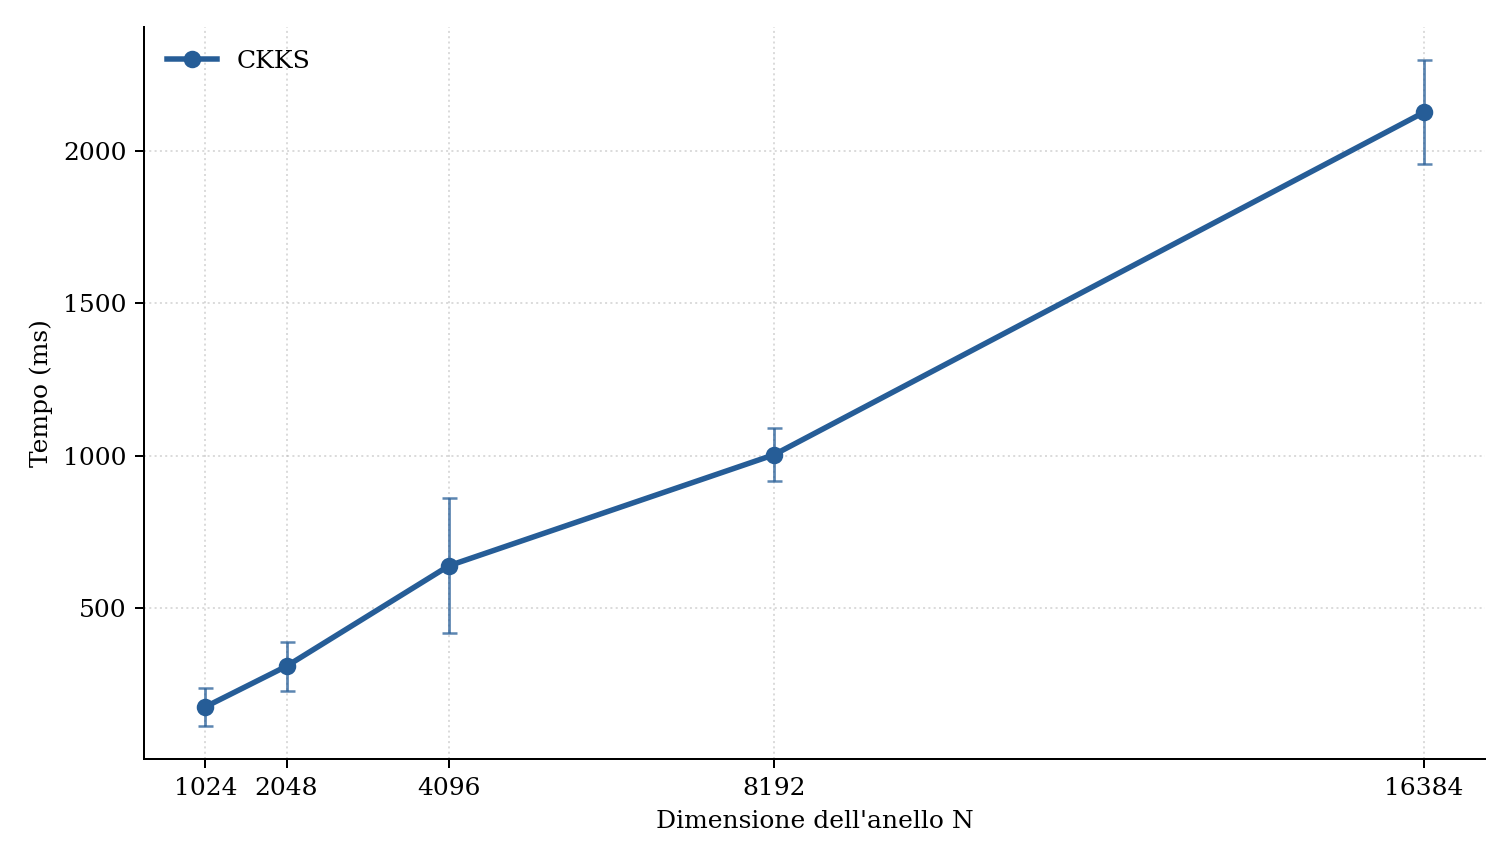
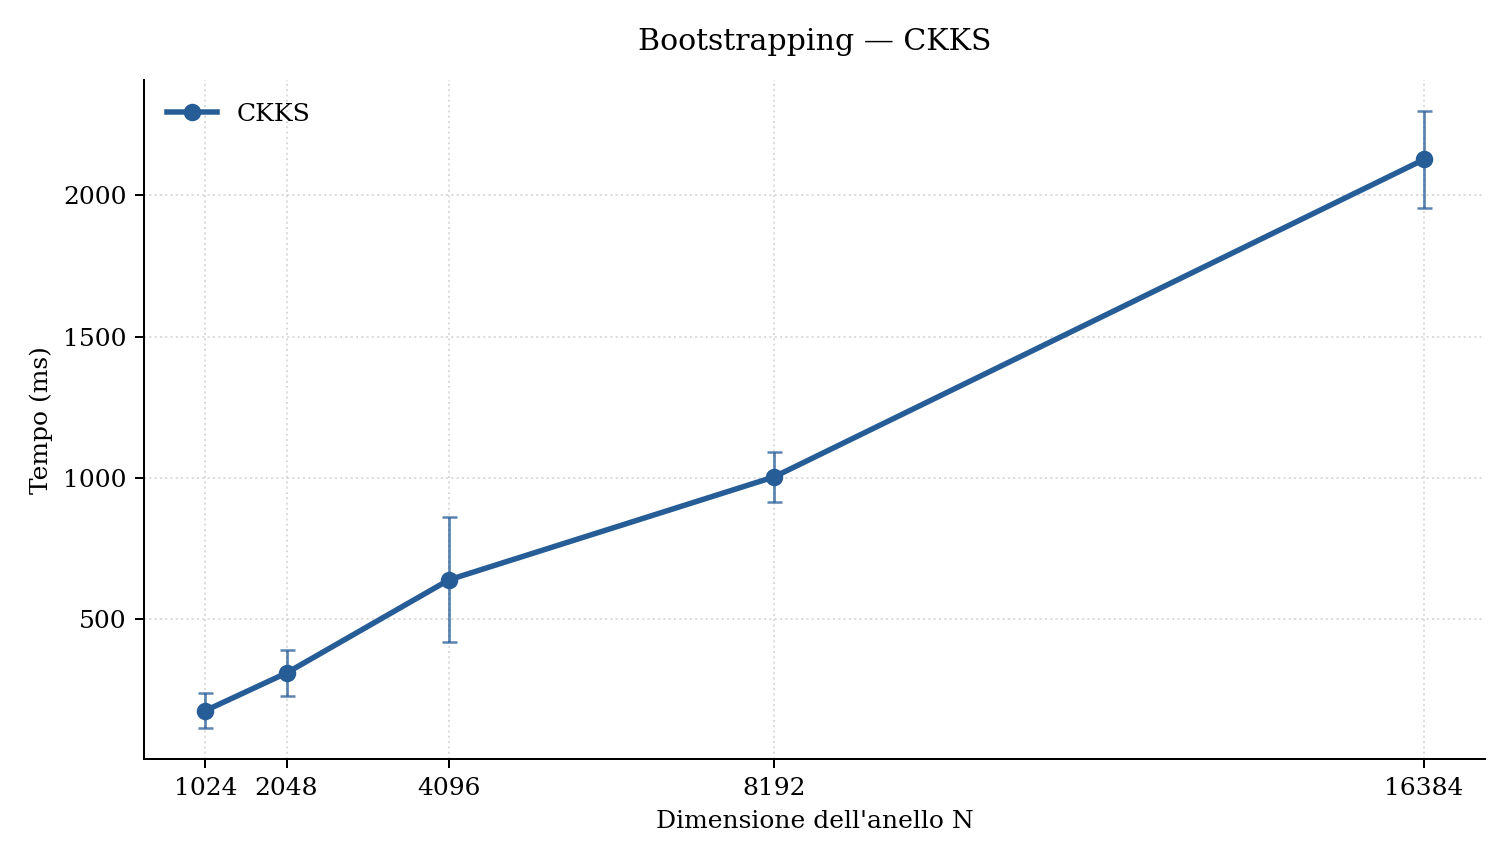
update plots

diff --git a/linear_regression/generate_linear_regression_figures.py b/linear_regression/generate_linear_regression_figures.py
@@ -123,68 +123,76 @@ def draw_scaling(frames, output_path):
 
 
 def draw_epoch_times(frame, output_path):
-    fig, ax = plt.subplots(figsize=(8.8, 5.2))
+    fig, ax = plt.subplots(figsize=(10.8, 5.8))
 
     bootstrap_epoch = 14
     bootstrap_time = frame.loc[frame["epoch"] == bootstrap_epoch, "epoch_time_seconds"].iloc[0]
-    pre_mask = frame["epoch"] < bootstrap_epoch
-    post_mask = frame["epoch"] >= bootstrap_epoch
+    line_color = "#2563EB"
+    bootstrap_color = "#D97706"
 
-    ax.axvspan(0.5, bootstrap_epoch - 0.5, color="#265d97", alpha=0.05)
-    ax.axvspan(bootstrap_epoch - 0.5, frame["epoch"].max() + 0.5, color="#c26b32", alpha=0.05)
+    # The narrow central band marks the epoch in which the ciphertext is refreshed.
+    ax.axvspan(0.5, bootstrap_epoch - 0.5, color="#EFF6FF", zorder=0)
+    ax.axvspan(bootstrap_epoch - 0.5, bootstrap_epoch + 0.5, color="#FFF7ED", zorder=0)
+    ax.axvspan(bootstrap_epoch + 0.5, frame["epoch"].max() + 0.5, color="#F0FDFA", zorder=0)
 
     ax.plot(
         frame["epoch"],
         frame["epoch_time_seconds"],
         marker="o",
-        markersize=7,
-        linewidth=2.6,
-        color="#265d97",
+        markersize=7.5,
+        linewidth=2.8,
+        color=line_color,
+        zorder=2,
     )
     ax.plot(
-        frame.loc[pre_mask, "epoch"],
-        frame.loc[pre_mask, "epoch_time_seconds"],
-        linewidth=0,
+        bootstrap_epoch,
+        bootstrap_time,
         marker="o",
-        markersize=7,
-        color="#265d97",
-    )
-    ax.plot(
-        frame.loc[post_mask, "epoch"],
-        frame.loc[post_mask, "epoch_time_seconds"],
         linewidth=0,
-        marker="o",
-        markersize=7,
-        color="#c26b32",
+        markersize=11,
+        color=bootstrap_color,
+        markeredgecolor="white",
+        markeredgewidth=1.5,
+        zorder=3,
     )
 
-    ax.axvline(bootstrap_epoch, color="#c26b32", linestyle="--", linewidth=1.6, alpha=0.9)
+    ax.axvline(bootstrap_epoch, color=bootstrap_color, linestyle="--", linewidth=1.8, alpha=0.9)
     ax.annotate(
-        "bootstrap",
+        "Bootstrap\nepoca 14",
         (bootstrap_epoch, bootstrap_time),
         textcoords="offset points",
-        xytext=(12, 12),
+        xytext=(16, 18),
         ha="left",
-        color="#c26b32",
-        fontsize=11,
-        fontweight="semibold",
+        va="bottom",
+        color=bootstrap_color,
+        fontsize=11.5,
+        fontweight="bold",
+        arrowprops={"arrowstyle": "-", "color": bootstrap_color, "linewidth": 1.2},
     )
 
-    ax.text(0.02, 0.96, "Prima del bootstrap", transform=ax.transAxes, va="top", ha="left", fontsize=10, color="#265d97")
-    ax.text(0.98, 0.96, "Dopo il bootstrap", transform=ax.transAxes, va="top", ha="right", fontsize=10, color="#c26b32")
+    zone_label_style = {
+        "transform": ax.get_xaxis_transform(),
+        "ha": "center",
+        "va": "bottom",
+        "fontsize": 10,
+        "fontweight": "semibold",
+    }
+    ax.text(7, 0.025, "Prima del bootstrap", color="#1E40AF", **zone_label_style)
+    ax.text(14, 0.025, "Bootstrap", color=bootstrap_color, **zone_label_style)
+    ax.text(17.5, 0.025, "Dopo il bootstrap", color="#0F766E", **zone_label_style)
 
     ax.set_xlabel("Epoca")
     ax.set_ylabel("Tempo per epoca (s)")
-    ax.grid(True, which="major", linestyle=":", alpha=0.45)
+    ax.grid(True, axis="y", which="major", linestyle=":", color="#94A3B8", alpha=0.7)
+    ax.grid(False, axis="x")
     ax.yaxis.set_major_formatter(ticker.StrMethodFormatter("{x:g}"))
-    ax.xaxis.set_major_locator(ticker.FixedLocator(frame["epoch"].tolist()))
-    ax.xaxis.set_major_formatter(
-        ticker.FixedFormatter([str(value) for value in frame["epoch"].tolist()])
-    )
+    ax.xaxis.set_major_locator(ticker.MultipleLocator(2))
+    ax.xaxis.set_minor_locator(ticker.MultipleLocator(1))
     ax.set_xlim(0.5, frame["epoch"].max() + 0.5)
+    ax.set_ylim(0, frame["epoch_time_seconds"].max() * 1.16)
 
     fig.tight_layout()
-    fig.savefig(output_path, dpi=180)
+    fig.savefig(output_path, dpi=220)
     plt.close(fig)
 
 

diff --git a/tesi/generate_benchmark_figures.py b/tesi/generate_benchmark_figures.py
@@ -55,7 +55,7 @@ def load_results(scheme):
     return aggregated.merge(stddev, on=key_cols, how="left")
 
 
-def draw(operation, filename, ylabel, metric="cpu_time", schemes=SCHEMES):
+def draw(operation, filename, ylabel, title, metric="cpu_time", schemes=SCHEMES):
     fig, ax = plt.subplots(figsize=(8.4, 4.8))
     plotted = False
     for scheme in schemes:
@@ -101,6 +101,7 @@ def draw(operation, filename, ylabel, metric="cpu_time", schemes=SCHEMES):
     ax.xaxis.set_minor_locator(ticker.NullLocator())
     ax.set_yscale("linear")
     ax.yaxis.set_major_formatter(ticker.StrMethodFormatter("{x:g}"))
+    ax.set_title(title, pad=12)
     ax.set_xlabel("Dimensione dell'anello N")
     ax.set_ylabel(ylabel)
     ax.grid(True, which="both", linestyle=":", alpha=0.45)
@@ -119,7 +120,7 @@ if __name__ == "__main__":
             "axes.spines.right": False,
         }
     )
-    draw("BM_EvalAdd", "benchmark_add.png", "Tempo (ms)")
-    draw("BM_EvalMult", "benchmark_mult.png", "Tempo (ms)")
-    draw("BM_Bootstrap", "benchmark_bootstrap.png", "Tempo (ms)", schemes=("ckks",))
-    draw("BM_ContextCreation", "benchmark_memory.png", "Heap osservato (MB)", metric="MB")
+    draw("BM_EvalAdd", "benchmark_add.png", "Tempo (ms)", "Somma omomorfica — BFV, BGV, CKKS")
+    draw("BM_EvalMult", "benchmark_mult.png", "Tempo (ms)", "Moltiplicazione omomorfica — BFV, BGV, CKKS")
+    draw("BM_Bootstrap", "benchmark_bootstrap.png", "Tempo (ms)", "Bootstrapping — CKKS", schemes=("ckks",))
+    draw("BM_ContextCreation", "benchmark_memory.png", "Heap osservato (MB)", "Creazione del contesto — BFV, BGV, CKKS", metric="MB")

diff --git a/discorso_presentazione.md b/discorso_presentazione.md
@@ -1,0 +1,172 @@
+# Discorso per la discussione della tesi
+
+Durata prevista: circa 15 minuti. Il testo e' pensato come traccia da esporre: non e' necessario leggerlo parola per parola, ma e' utile mantenere i messaggi chiave e i passaggi tra le slide.
+
+---
+
+## Slide 1 - Titolo
+
+Buongiorno. In questa presentazione descrivero' il lavoro svolto sulle tecniche di Fully Homomorphic Encryption, o FHE. Il filo conduttore della tesi e' capire come sia possibile elaborare dati sensibili senza renderli leggibili al soggetto che esegue il calcolo. Partiro' dal problema e dagli schemi crittografici, poi presentero' i benchmark e due casi di studio: una regressione lineare in ambito sanitario e un protocollo di aggregazione privata.
+
+---
+
+## Slide 2 - Problematica: calcolo privacy-aware e machine learning
+
+Oggi grandi quantita' di dati vengono raccolte da ospedali, aziende e servizi digitali. Questi dati sono utili per analisi statistiche e modelli di machine learning, ma possono contenere informazioni personali o sanitarie molto sensibili.
+
+La cifratura tradizionale protegge bene i dati mentre sono memorizzati o trasmessi. Tuttavia, nel momento in cui il server deve elaborarli, normalmente deve prima decifrarli. Di conseguenza, il server torna a vedere i valori originali: proprio il punto che vorremmo proteggere.
+
+Questo e' particolarmente rilevante nel machine learning. Per addestrare un modello o produrre una previsione, spesso e' necessario centralizzare dati appartenenti a soggetti diversi. La domanda di partenza della tesi e' quindi: possiamo eseguire almeno una parte di questi calcoli senza consegnare i dati in chiaro all'infrastruttura che li elabora?
+
+La cifratura omomorfica fornisce una risposta possibile.
+
+---
+
+## Slide 3 - Obiettivo della tesi
+
+L'obiettivo della tesi non e' soltanto descrivere la cifratura omomorfica dal punto di vista teorico, ma valutarne l'uso pratico.
+
+Ho utilizzato la libreria OpenFHE per sperimentare tre schemi: BFV, BGV e CKKS. Il lavoro e' stato organizzato in tre fasi. Prima ho costruito una suite di benchmark per misurare tempo e memoria delle operazioni principali. Poi ho applicato CKKS a una regressione lineare su dati sanitari sintetici. Infine ho realizzato un prototipo di aggregazione ispirato alle VDAF, usando BGV per elaborare contributi interi cifrati.
+
+L'idea principale e' collegare tre livelli: le proprieta' degli schemi, i loro costi misurabili e le decisioni architetturali necessarie per usarli in un'applicazione reale.
+
+---
+
+## Slide 4 - Tecniche omomorfiche: BFV, BGV e CKKS
+
+Il principio comune dei tre schemi e' semplice: un client codifica e cifra un dato con una chiave pubblica; il server riceve solo ciphertext, esegue somme o moltiplicazioni direttamente su di essi e produce un ciphertext risultato. Solo chi possiede la chiave segreta puo' decifrarlo.
+
+BFV e BGV sono adatti a valori interi. I calcoli sono esatti, ma avvengono in aritmetica modulare: bisogna quindi scegliere un modulo abbastanza grande da rappresentare correttamente i risultati intermedi.
+
+CKKS, invece, e' progettato per numeri reali o complessi approssimati. Questa caratteristica lo rende adatto a statistica e machine learning, dove coefficienti e risultati non sono necessariamente interi. Il compromesso e' che il risultato non e' esatto cifra per cifra, ma ha un piccolo errore numerico controllato.
+
+Quindi non esiste uno schema migliore in assoluto: dipende dal tipo di dato e dal calcolo richiesto.
+
+---
+
+## Slide 5 - Tecniche omomorfiche: rumore, profondita' e packing
+
+Per capire il costo di FHE servono tre concetti. Il primo e' il rumore: ogni ciphertext contiene una componente casuale che garantisce sicurezza. Durante i calcoli il rumore cresce; le somme lo aumentano poco, mentre le moltiplicazioni lo aumentano molto di piu'. Se supera un limite, la decifratura non e' piu' corretta.
+
+Per questo introduciamo la profondita' moltiplicativa, cioe' il numero massimo di moltiplicazioni consecutive che il circuito deve sostenere. Aumentarla rende possibile un calcolo piu' lungo, ma aumenta anche tempo, memoria e dimensione delle chiavi.
+
+Il secondo concetto e' il packing: un singolo ciphertext puo' contenere molti valori, chiamati slot. Una stessa operazione viene applicata in parallelo agli slot, in modo simile a SIMD. Questo e' essenziale per rendere efficienti aggregazioni e calcoli vettoriali.
+
+Infine, se il rumore sta per esaurire il budget, CKKS puo' usare il bootstrapping per rinnovare il ciphertext. E' molto costoso, quindi conviene evitarlo quando e' sufficiente una configurazione a profondita' prefissata.
+
+---
+
+## Slide 6 - Scenari e applicazioni: un client e un server
+
+Nel caso piu' semplice abbiamo un client con un dato sensibile e un computation server. Il client cifra il proprio input con la chiave pubblica e invia il ciphertext al server. Il server esegue il calcolo, ma non possiede la chiave segreta e quindi non puo' leggere ne' l'input ne' il risultato intermedio.
+
+Il risultato cifrato viene poi inviato a un soggetto autorizzato alla decifratura, che puo' restituire solo il valore finale necessario. Questo modello e' utile, per esempio, per una query medica privata: il server puo' applicare un modello predittivo ai dati di un paziente senza visualizzarli in chiaro.
+
+Il vantaggio e' la separazione tra chi calcola e chi puo' leggere. Il costo e' maggiore rispetto al calcolo ordinario e richiede una gestione accurata di chiavi pubbliche, chiavi segrete e chiavi di valutazione.
+
+---
+
+## Slide 7 - Scenario di aggregazione: molti client, aggregatore e collector
+
+Il secondo scenario e' l'aggregazione. Qui piu' client inviano contributi numerici, per esempio conteggi o misurazioni. L'obiettivo non e' conoscere ogni valore individuale, ma soltanto la somma complessiva.
+
+Ogni client cifra il proprio report con la chiave pubblica. L'aggregatore riceve tutti i ciphertext, li valida e li somma senza decifrarli. Al termine invia un unico ciphertext aggregato al collector, che possiede la chiave segreta e decifra solo il totale.
+
+Questo modello e' utile quando il dato collettivo ha valore, ma i contributi individuali non devono essere esposti. Nel mio prototipo il sistema e' volutamente semplice, con un aggregatore e un collector. Per questo e' corretto definirlo VDAF-like: riprende l'idea dell'aggregazione privata, ma non offre la stessa distribuzione fiduciaria di Prio3 completo con aggregatori indipendenti.
+
+---
+
+## Slide 8 - Piano dei test
+
+Il piano sperimentale segue una progressione precisa. Il primo livello e' costituito dai microbenchmark: misurano il costo delle primitive crittografiche isolandole dal resto dell'applicazione.
+
+Il secondo livello e' la regressione lineare. Qui non basta piu' misurare una singola somma o moltiplicazione, perche' entrano in gioco packing, rotazioni degli slot, rescaling e dipendenze tra operazioni. Questo permette di capire la differenza tra il costo teorico delle primitive e quello reale di un algoritmo.
+
+Il terzo livello e' l'aggregazione: viene verificato che i client possano inviare report cifrati, che l'aggregatore validi i report senza leggerli e che il collector recuperi il totale corretto.
+
+In questo modo i test passano dalla misura delle primitive a due applicazioni con requisiti diversi: valori reali approssimati per il machine learning e interi esatti per l'aggregazione.
+
+---
+
+## Slide 9 - Benchmark: metodologia
+
+I benchmark sono stati implementati in C++17 con OpenFHE e Google Benchmark. Sono stati eseguiti su un AMD Ryzen 9800X3D con 48 gigabyte di memoria DDR5, in ambiente WSL e con compilazione ottimizzata tramite `-march=native`.
+
+Per BFV, BGV e CKKS ho misurato la creazione del contesto, la generazione delle chiavi, la cifratura, la decifratura, l'addizione e la moltiplicazione omomorfica. Per CKKS ho aggiunto la generazione delle chiavi di bootstrapping e il bootstrapping stesso.
+
+I parametri variati sono la ring dimension e la profondita' moltiplicativa. Nelle figure principali la profondita' e' fissata a 16, mentre la ring dimension varia fino a 16384. BFV e BGV usano il modulo plaintext primo 786433; CKKS usa una configurazione dedicata al calcolo approssimato.
+
+Un limite importante: per osservare direttamente l'effetto della ring dimension, i benchmark non impongono un livello di sicurezza standard per ogni configurazione. I grafici descrivono quindi tendenze prestazionali, non parametri da copiare direttamente in produzione.
+
+---
+
+## Slide 10 - Benchmark: risultati
+
+Il primo risultato e' che l'addizione omomorfica e' molto piu' economica della moltiplicazione. A ring dimension 4096 e profondita' 16, l'addizione richiede circa 0,158 millisecondi in BFV, 0,232 in BGV e 0,085 in CKKS.
+
+Per la moltiplicazione la differenza aumenta: BFV richiede circa 13,652 millisecondi, BGV 4,392 e CKKS 3,879. Questo non significa che CKKS sia sempre preferibile, perche' rappresenta dati diversi; mostra pero' che la scelta dello schema e del circuito influenza direttamente il costo.
+
+All'aumentare della ring dimension aumentano sia gli slot disponibili sia tempo e memoria. Il packing diventa vantaggioso solo se gli slot sono realmente utilizzati.
+
+Infine, il bootstrapping CKKS e' di gran lunga piu' costoso delle operazioni normali. La conclusione pratica e' progettare prima il circuito, limitare le moltiplicazioni consecutive e usare il bootstrapping solo se necessario per proseguire il calcolo.
+
+---
+
+## Slide 11 - Regressione lineare: caso di studio e implementazione
+
+Il primo caso applicativo e' una regressione lineare per stimare i giorni di ricovero ospedaliero. Il dataset sintetico contiene sei feature: eta', indice di comorbilita' di Charlson, numero di procedure, pressione sistolica, pressione diastolica e indice di massa corporea.
+
+Il modello calcola una funzione lineare: ogni feature viene moltiplicata per un peso, i risultati vengono sommati e viene aggiunto un bias. I pesi vengono aggiornati con gradient descent, confrontando a ogni epoca la previsione con il numero reale di giorni di ricovero.
+
+Ho scelto CKKS perche' coefficienti, medie ed errori intermedi sono numeri reali. I dati sono organizzati negli slot del ciphertext: con sei feature il circuito effettua padding a otto, e 512 campioni occupano 512 per 8, cioe' 4096 slot. Con ring dimension 8192, il dataset entra esattamente in un ciphertext packed.
+
+La regressione e' quindi un esempio utile: ha una formula semplice, ma rende visibile il costo reale di un training FHE iterativo.
+
+---
+
+## Slide 12 - Regressione lineare: risultati e lettura
+
+Nel caso con 512 campioni e 10 epoche, l'inizializzazione FHE ha richiesto circa 6,23 secondi e la cifratura di dataset e modello circa 1,62 secondi. Il training ha richiesto 100,06 secondi, per un tempo end-to-end di circa 101,73 secondi: in media circa 10 secondi per epoca.
+
+Il risultato e' piu' costoso di quanto suggeriscano i microbenchmark isolati. La stima basata sulle primitive era circa 1,83 secondi per epoca, mentre il tempo osservato e' circa cinque volte e mezzo superiore.
+
+Il motivo e' che il training include rotazioni con chiavi diverse, somme strutturate tra slot, key switching, rescaling e una sequenza di ciphertext che dipendono l'uno dall'altro. Quindi il microbenchmark e' un limite inferiore utile, ma non sostituisce il test dell'algoritmo completo.
+
+In queste 10 epoche non e' stato necessario il bootstrapping e sono rimasti 23 livelli. Il risultato mostra che CKKS e' utilizzabile per un prototipo di machine learning privacy-aware, ma richiede ottimizzazione e una scelta accurata dei parametri per scalare.
+
+---
+
+## Slide 13 - Aggregazione: sistema e chiavi
+
+Il secondo caso di studio usa BGV per aggregare valori interi. Il sistema ha quattro ruoli: una setup authority, i client, l'aggregatore e il collector. La setup authority genera il contesto, la chiave pubblica, la chiave segreta e le evaluation keys.
+
+I client ricevono contesto e chiave pubblica, quindi possono cifrare i report. L'aggregatore possiede le evaluation keys necessarie per somme, rotazioni e moltiplicazioni omomorfiche, ma non la chiave segreta. Il collector possiede invece la chiave segreta e puo' decifrare il risultato finale.
+
+Ogni valore da 0 a 100 viene rappresentato in sette slot binari con pesi 1, 2, 4, 8, 16, 32 e 37. L'ultimo peso non e' una potenza di due, ma permette al vettore di tutti uno di rappresentare esattamente 100.
+
+La scelta di BGV deriva dalla natura del problema: i report e il totale sono interi e la validazione sfrutta l'aritmetica modulare esatta.
+
+---
+
+## Slide 14 - Aggregazione: validazione e risultato
+
+L'aggregatore deve evitare di sommare report malformati senza poterli leggere. Per verificare che ogni slot sia un bit, cioe' zero o uno, calcola il polinomio `x per x meno 1`. Il risultato e' zero per zero e uno, mentre e' diverso da zero per altri valori.
+
+Gli errori dei sette slot vengono sommati. Tramite il piccolo teorema di Fermat, l'aggregatore trasforma questa somma in un flag cifrato: zero se il report e' valido, uno se e' invalido. Ottiene quindi un flag di validita' opposto e moltiplica il report per quel flag. Il meccanismo si chiama validate-or-zero: un report valido resta invariato, uno invalido diventa il vettore nullo.
+
+Nella validazione finale sono stati aggregati i valori 51, 7, 4, 49 e 13. Il collector ha decifrato gli slot sommati e ha ricostruito il totale 124, uguale al valore atteso.
+
+Il prototipo dimostra la correttezza funzionale, ma il limite resta la fiducia centralizzata: non e' una sostituzione completa di Prio3, che distribuisce la fiducia tra piu' aggregatori indipendenti.
+
+---
+
+## Slide 15 - Conclusioni
+
+In conclusione, la tesi mostra che la cifratura omomorfica rende possibile separare il dato dal calcolo: il server puo' elaborare ciphertext senza conoscere necessariamente gli input.
+
+I benchmark confermano pero' che questa privacy ha un costo. Le addizioni sono economiche, le moltiplicazioni pesano molto di piu', la ring dimension incide su tempo e memoria e il bootstrapping deve essere una scelta mirata.
+
+I due casi di studio mostrano due usi complementari. CKKS e' adatto a una regressione lineare su dati sanitari grazie ai numeri reali approssimati e al packing. BGV e' invece adatto a un'aggregazione di conteggi interi con validazione sotto cifratura.
+
+Il risultato principale non e' quindi che FHE sostituisca il calcolo tradizionale in ogni scenario, ma che, scegliendo correttamente schema, parametri e architettura, permette di costruire applicazioni in cui il dato sensibile non deve essere consegnato in chiaro a chi esegue l'elaborazione.
+
